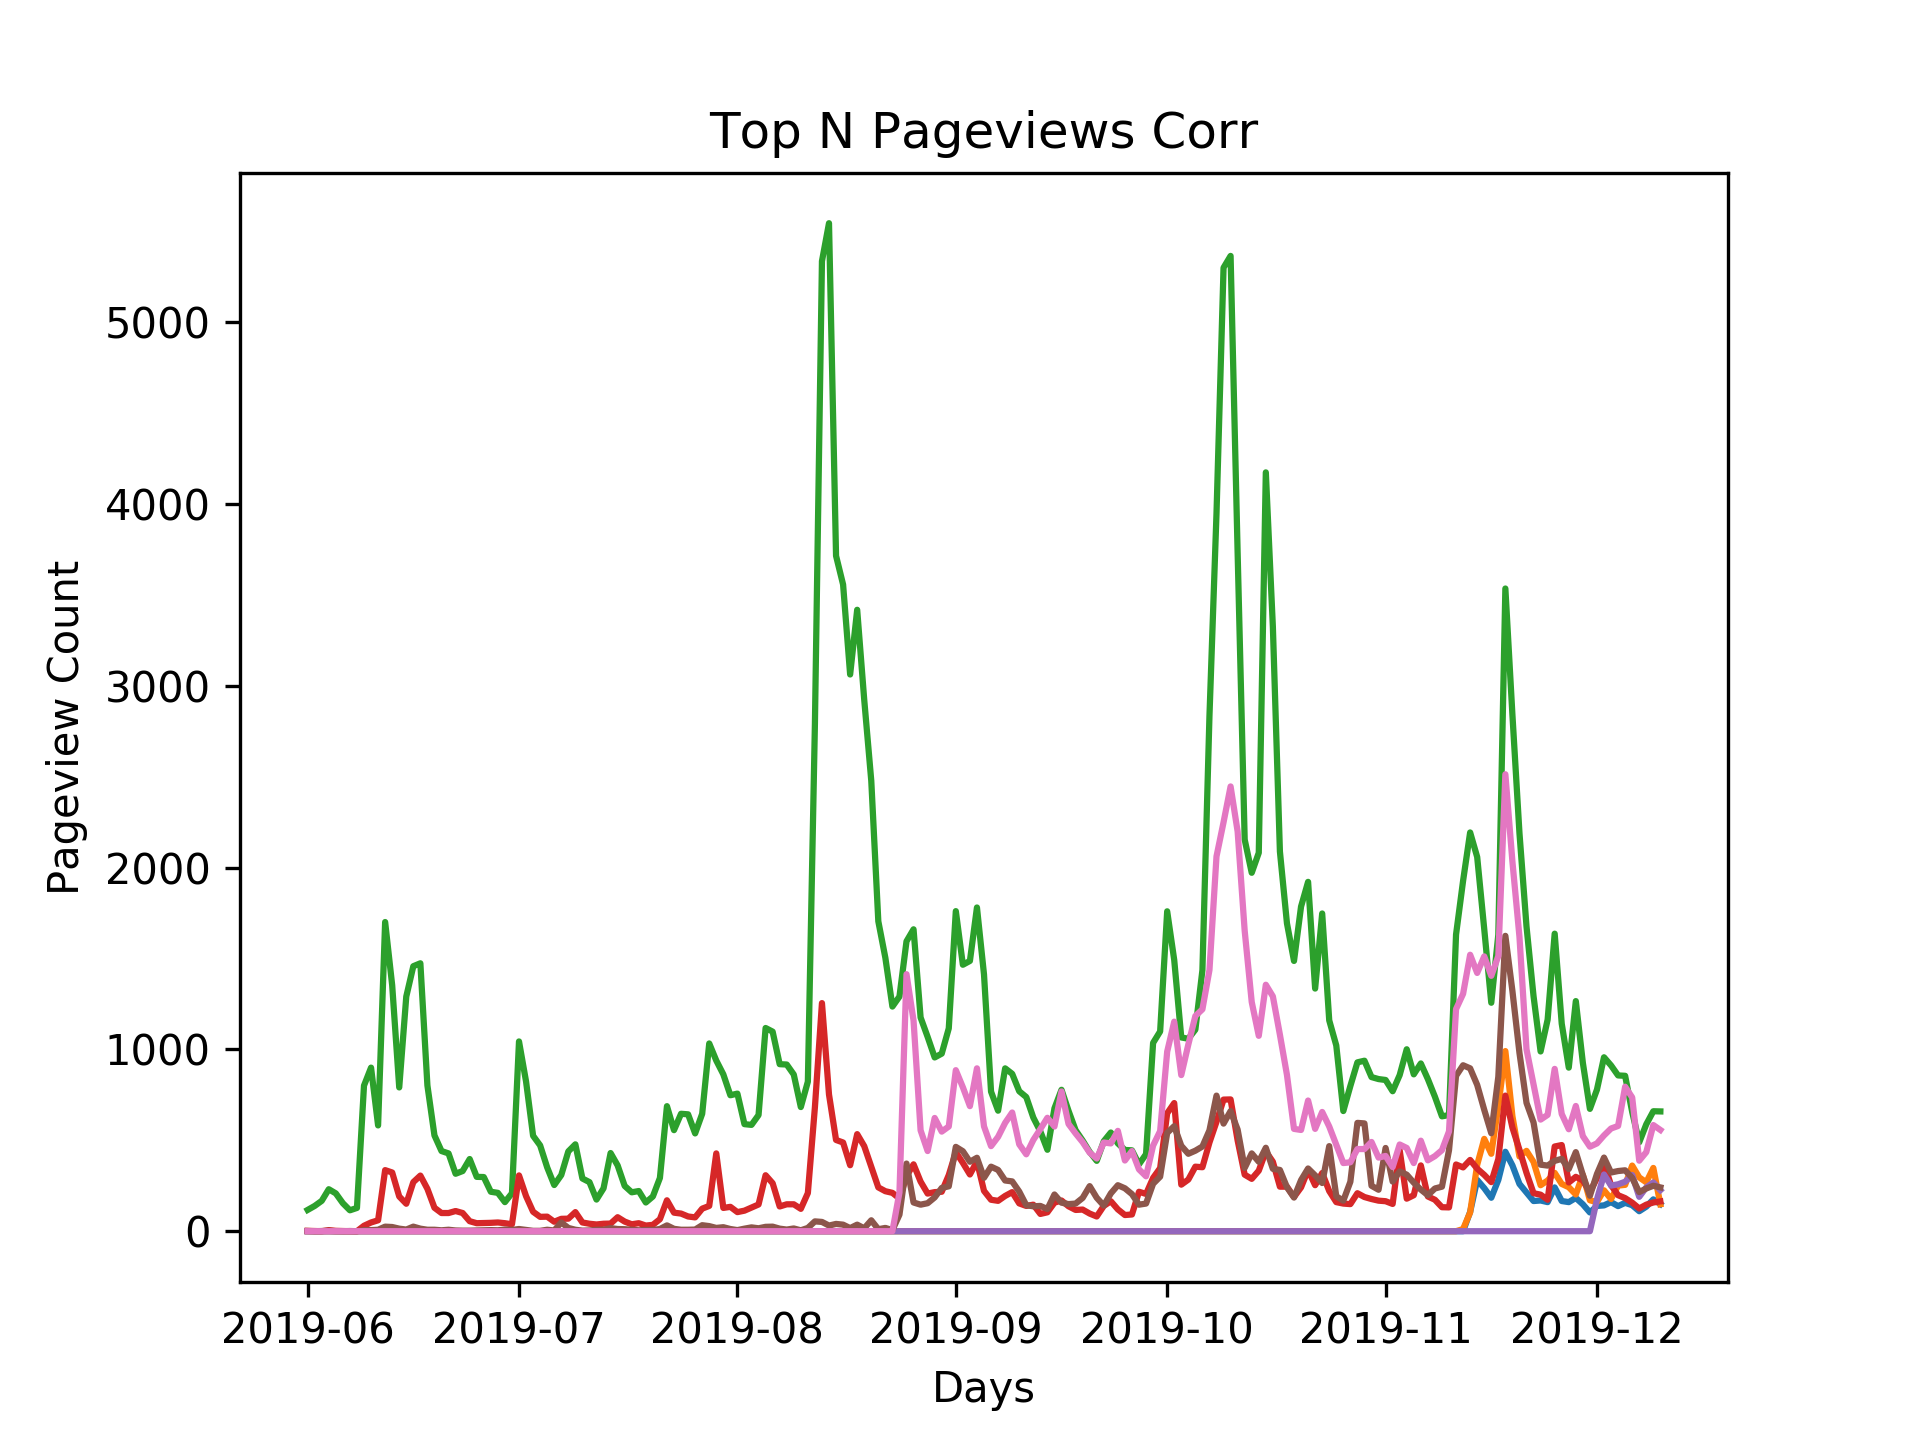
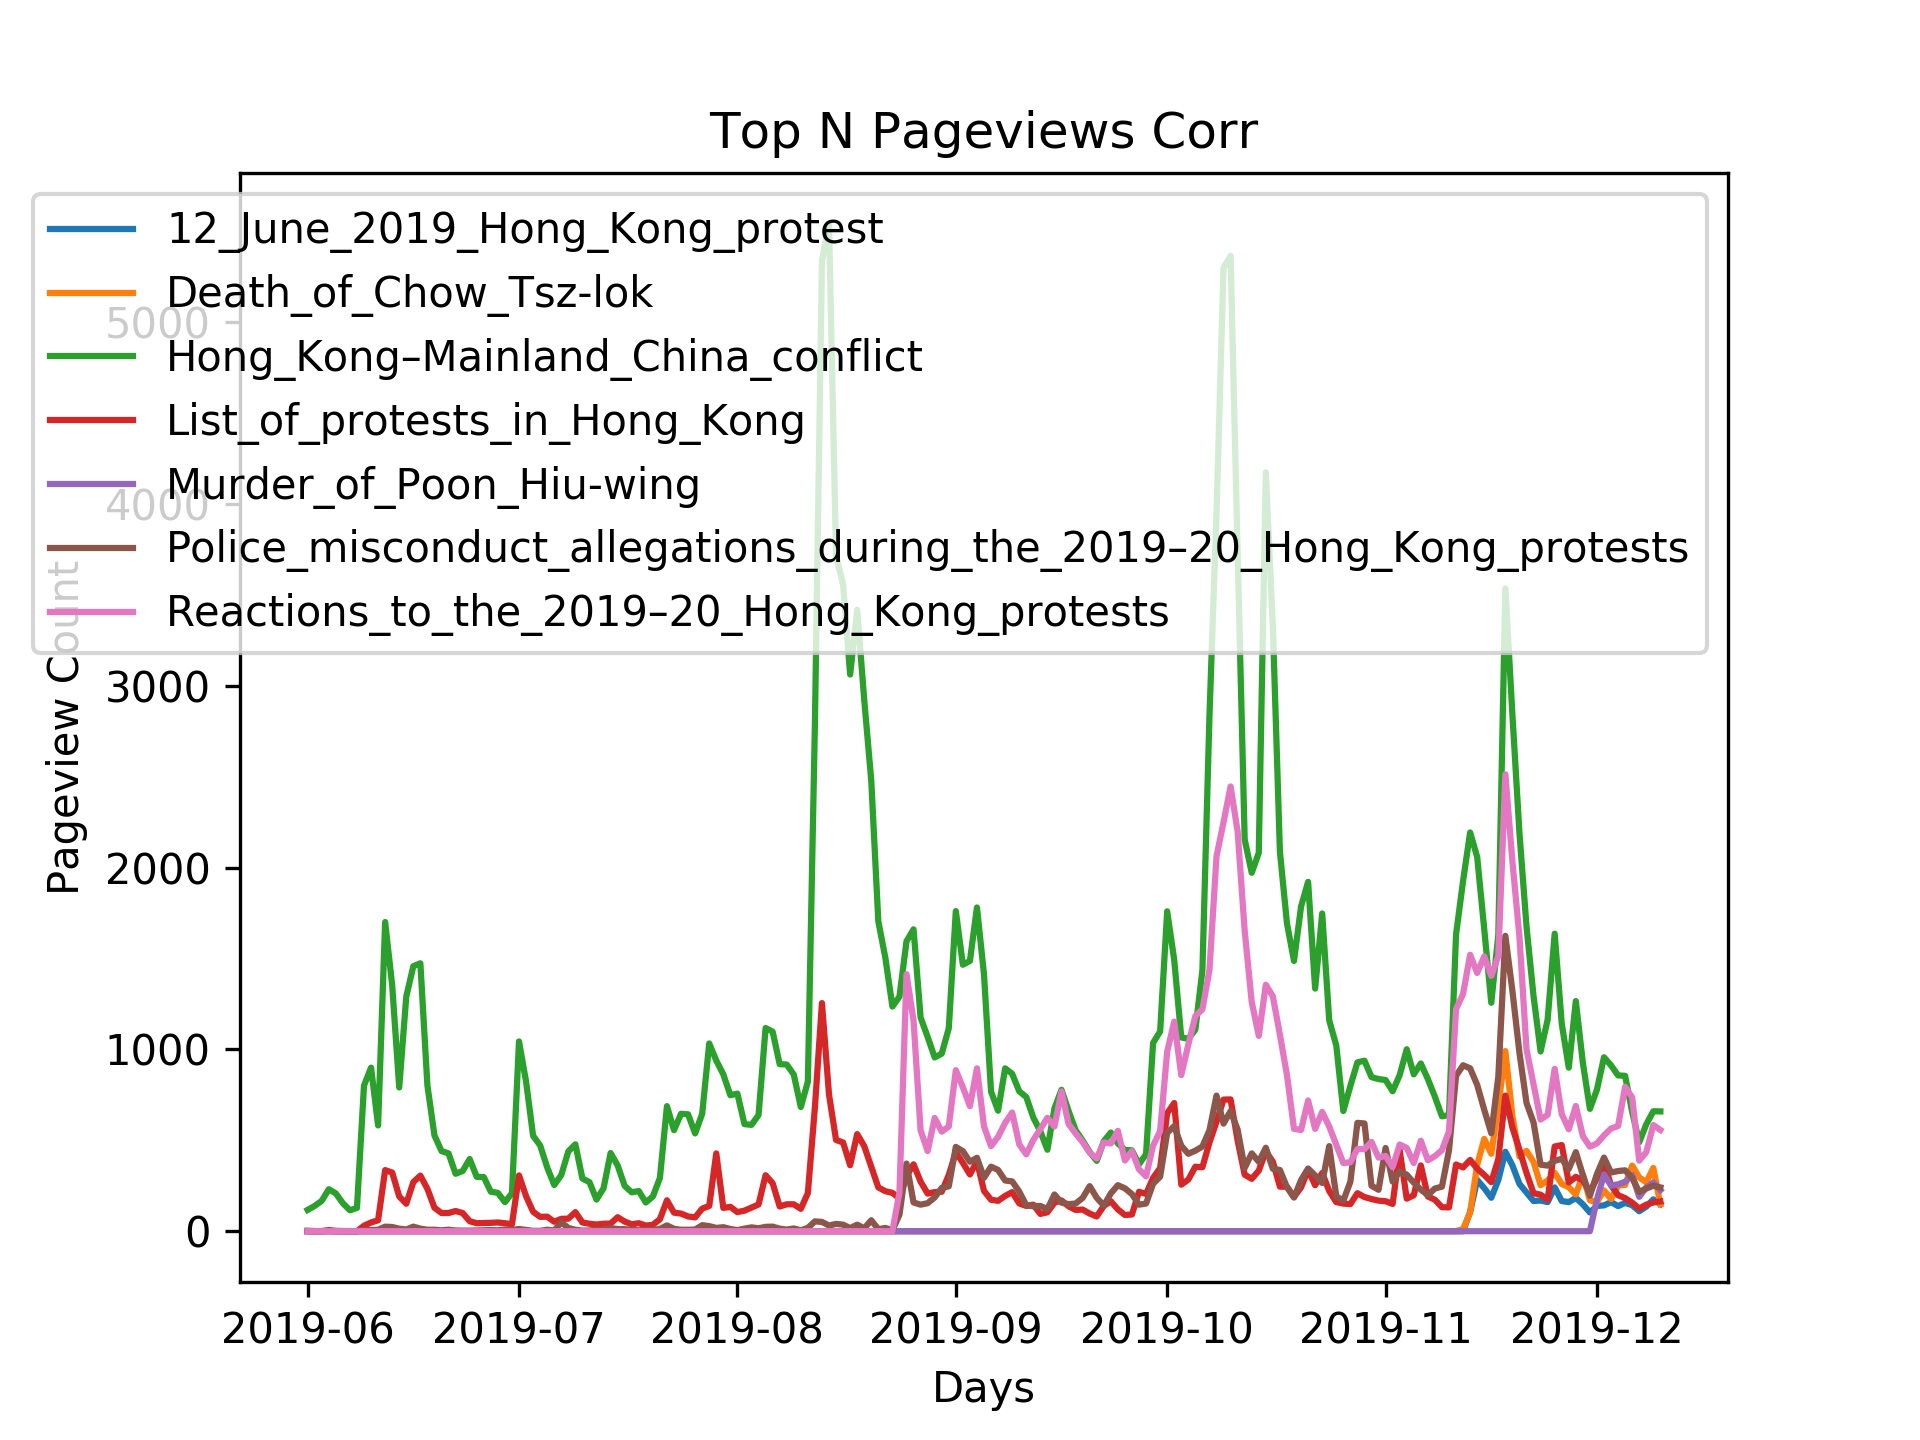
add label to graph

Changed region(s): [[0.0, 0.125, 0.875, 0.4688]]

diff --git a/pageviews.py b/pageviews.py
@@ -81,10 +81,12 @@ print("Plotting pageviews took {0} seconds.".format(str(endPage - start)))
 def plotTopNPageviews(pageDict):
     allDays = []
     allNumViews = []
+    keyNames = []
     for key in pageDict.keys():
         if (key in topNCorr):
             days = []
             numViews = []
+            keyNames.append(key)
             for index, row in pageDict[key].iterrows():
                 viewDate = dt.strptime(row['Date'], "%Y-%m-%d")
                 if (viewDate >= dt.strptime("2019-06-01", "%Y-%m-%d")):
@@ -94,10 +96,11 @@ def plotTopNPageviews(pageDict):
             allDays.append(days)
             allNumViews.append(numViews)
     for i in range(len(allDays)):
-        plt.plot(allDays[i], allNumViews[i])
+        plt.plot(allDays[i], allNumViews[i], label=keyNames[i])
     plt.title("Top N Pageviews Corr")
     plt.xlabel("Days")
     plt.ylabel("Pageview Count")
+    plt.legend()
     plt.savefig(os.path.join("figures","TopNPageviewCorrSince2019.png"), dpi=300)
     plt.close()
 
